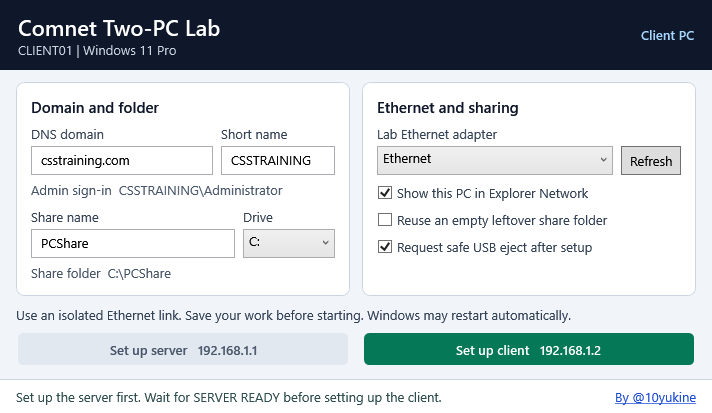
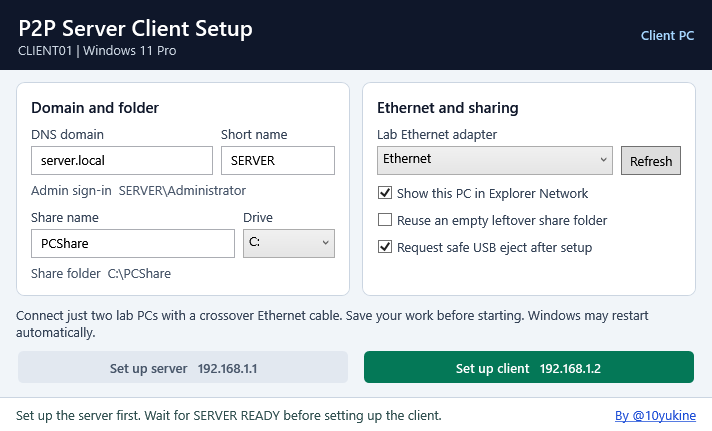
Rename P2P setup helper and document the direct two-PC lab

diff --git a/README.md b/README.md
@@ -1,8 +1,14 @@
-# Comnet Two-PC Lab
+# P2P Server Client Setup
 
-Comnet Two-PC Lab is a Windows desktop helper for setting up an isolated Active Directory practice network. It guides one Windows Server and one Windows client from a direct Ethernet connection to a working domain and authenticated file sharing.
+P2P Server Client Setup is a Windows helper for an isolated two-PC networking lab. It connects one Windows Server and one Windows client directly over Ethernet, creates an Active Directory domain, and sets up a shared folder on each PC. Here, **P2P** means the two PCs connect directly and can access each other's shares. Active Directory still runs on the server.
 
-![Comnet Two-PC Lab on a Windows client](docs/gui.png)
+![P2P Server Client Setup on a Windows client](docs/gui.png)
+
+## Lab scope
+
+> **Use this helper with exactly two lab PCs connected directly by a crossover UTP Ethernet cable.** Disconnect Wi-Fi, VPNs, and other network links first. Keep the crossover cable off your office, school, and home networks.
+>
+> The helper replaces IPv4 settings on the selected adapter, assigns fixed IPs, and may restart Windows. It is intended for disposable or backed-up lab machines. Switch-based setups, shared networks, and deployments with more than two PCs are outside the recommended setup and have not been verified here.
 
 ## What it sets up
 
@@ -13,7 +19,7 @@ Comnet Two-PC Lab is a Windows desktop helper for setting up an isolated Active 
 
 ## Before you start
 
-- Use two test PCs on an isolated switch or a direct Ethernet link. Disconnect other network connections. The helper replaces the IPv4 settings on the chosen adapter.
+- Connect the two lab PCs directly using a tested crossover UTP Ethernet cable. Check the link lights on both PCs before opening the helper.
 - Use Windows Server with Desktop Experience and a client edition of Windows Pro, Enterprise, or Education. Both PCs need Windows PowerShell 5.1, working Ethernet drivers, and administrator access.
 - Open **Setup-GUI.bat** to check compatibility automatically. It shows the detected edition and enables the matching setup button. On Windows Server 2012 R2 with an earlier PowerShell version, it explains that Windows Management Framework 5.1 is required before setup can start.
 - Name the PCs before creating or joining the domain. `SERVER01` and `CLIENT01` work well.
